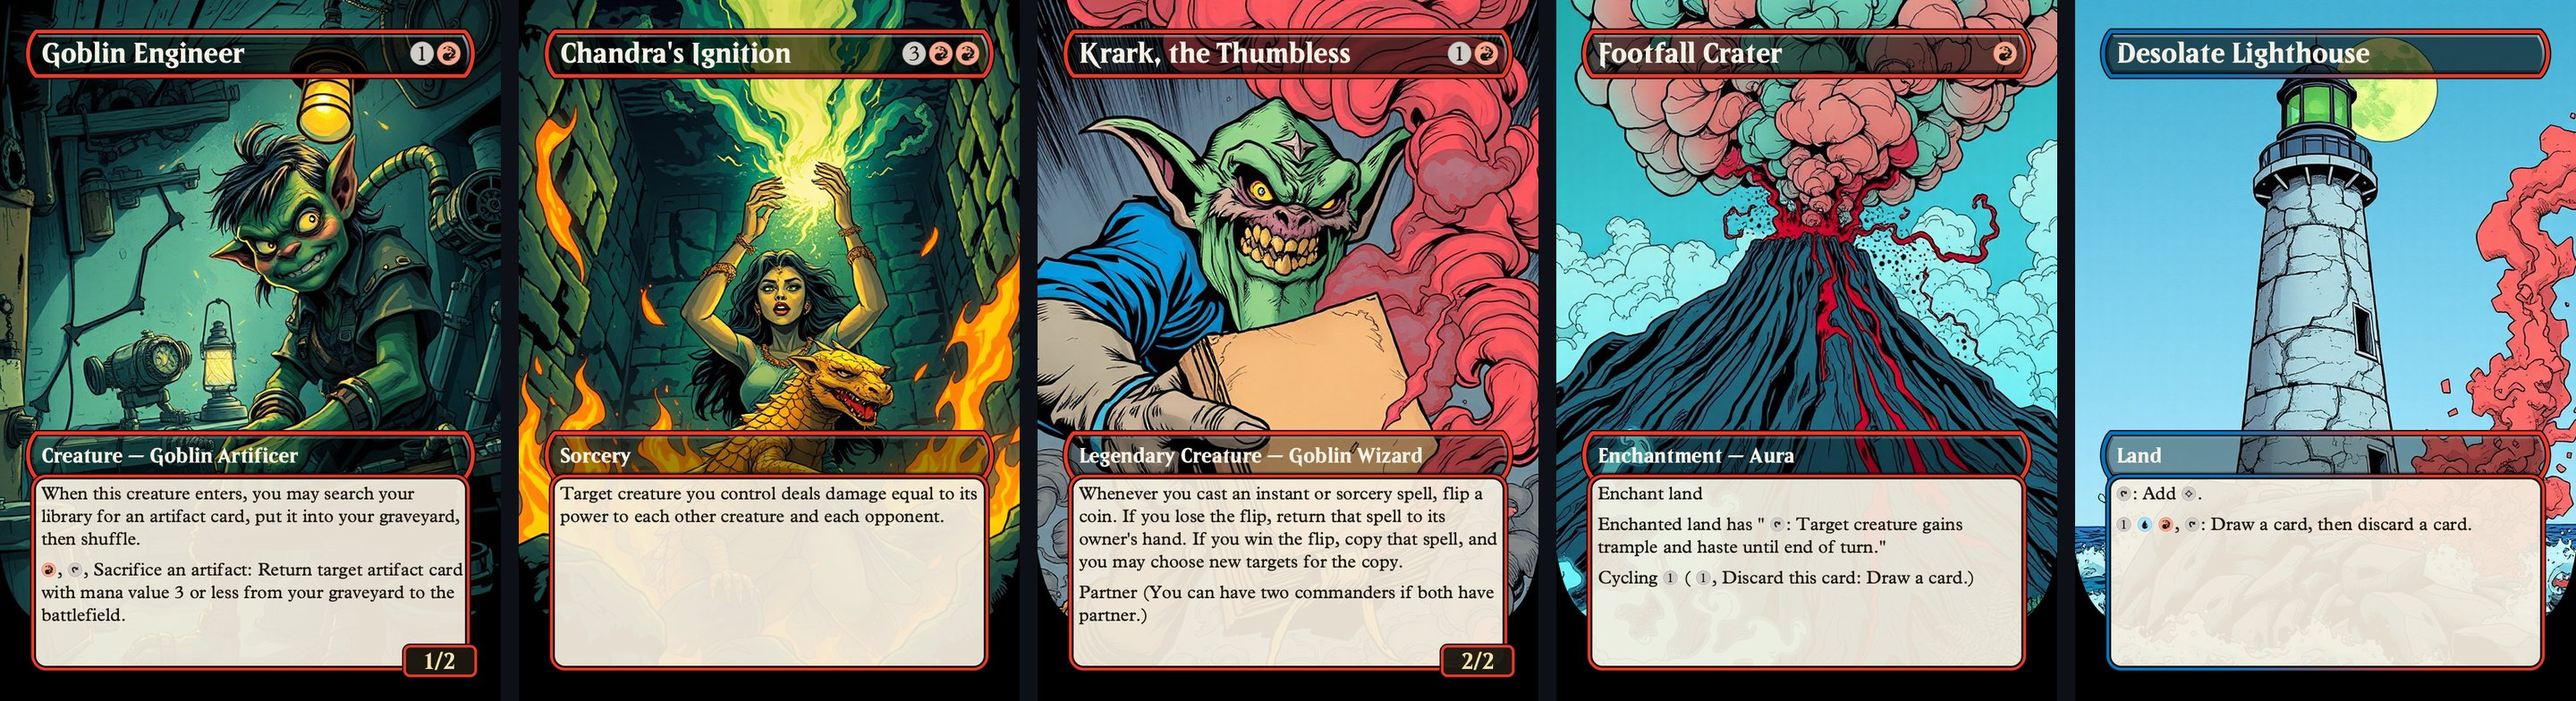
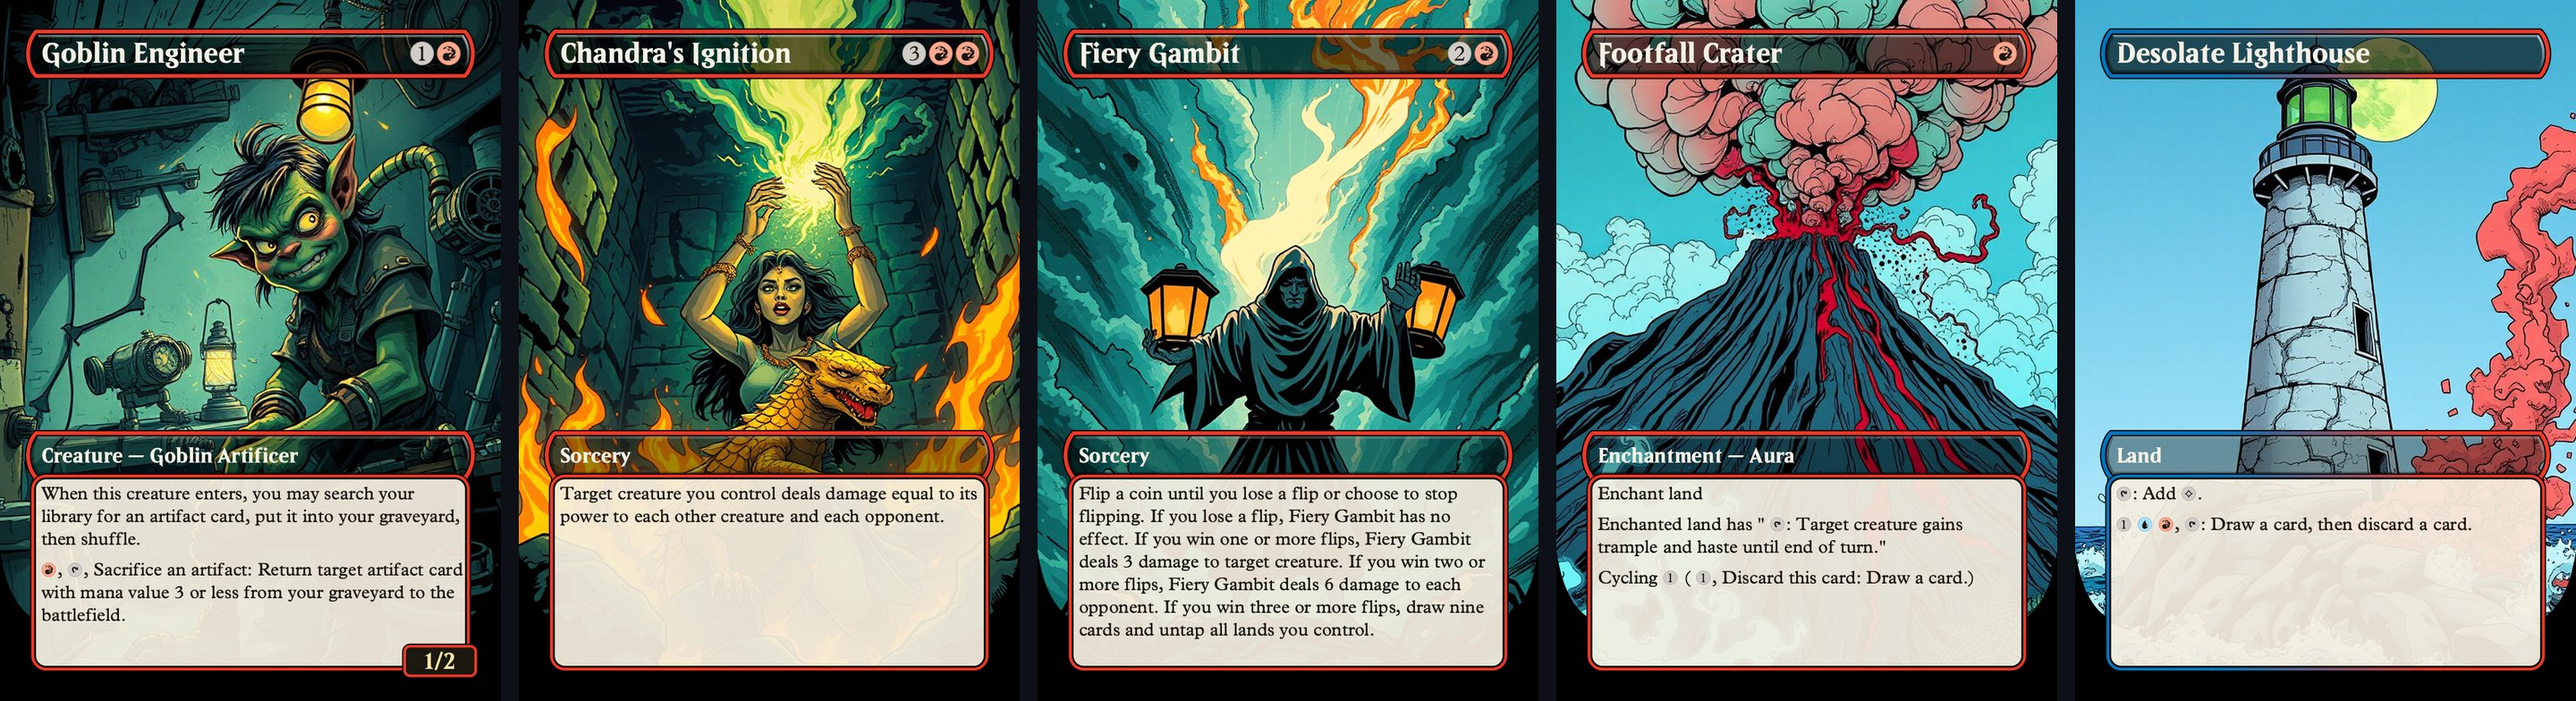
docs(readme): Fiery Gambit replaces Krark, the Thumbless (drawn with a thumb)
Claude-Session: https://claude.ai/code/session_01CL91K3Fs5QZTnbko5qqosT

Changed region(s): [[0.375, 0.0, 0.625, 0.9184], [0.5312, 0.9184, 0.5938, 0.9796]]

diff --git a/README.md b/README.md
@@ -49,7 +49,7 @@ In the app: click **Import** and paste your decklist, add three to five referenc
   <source media="(prefers-color-scheme: dark)" srcset="docs/images/samples-comic-dark.jpg">
   <img alt="Comic-book ink style — five generated cards" src="docs/images/samples-comic.jpg">
 </picture></p>
-<p align="center"><em>Comic-book ink — teal-and-coral smoke: a goblin in her workshop, a pyromancer's ignition, a goblin wizard with a coin to flip, a crater blowing its top, a lighthouse under a green moon</em></p>
+<p align="center"><em>Comic-book ink — teal-and-coral smoke: a goblin in her workshop, a pyromancer's ignition, a hooded gambler between two lanterns and a pillar of fire, a crater blowing its top, a lighthouse under a green moon</em></p>
 
 <p align="center"><picture>
   <source media="(prefers-color-scheme: dark)" srcset="docs/images/samples-filmstill-dark.jpg">
